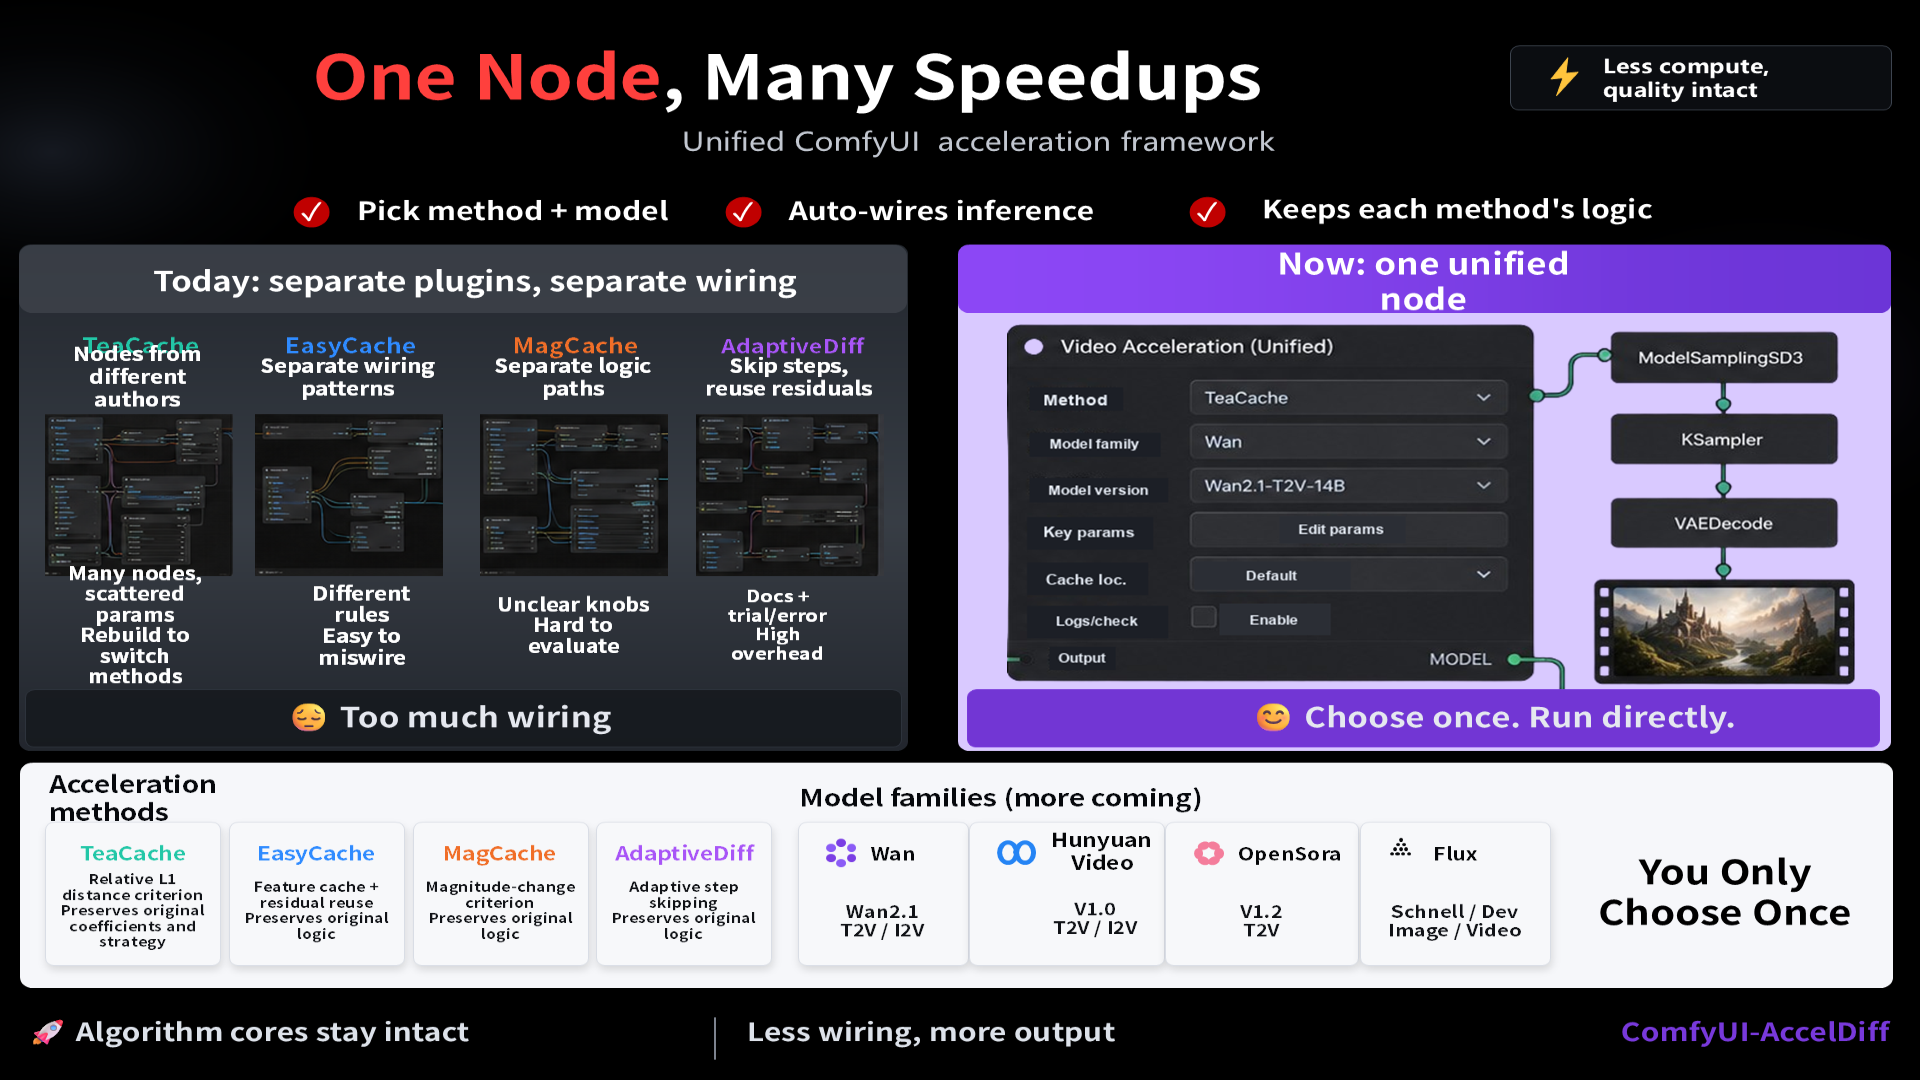
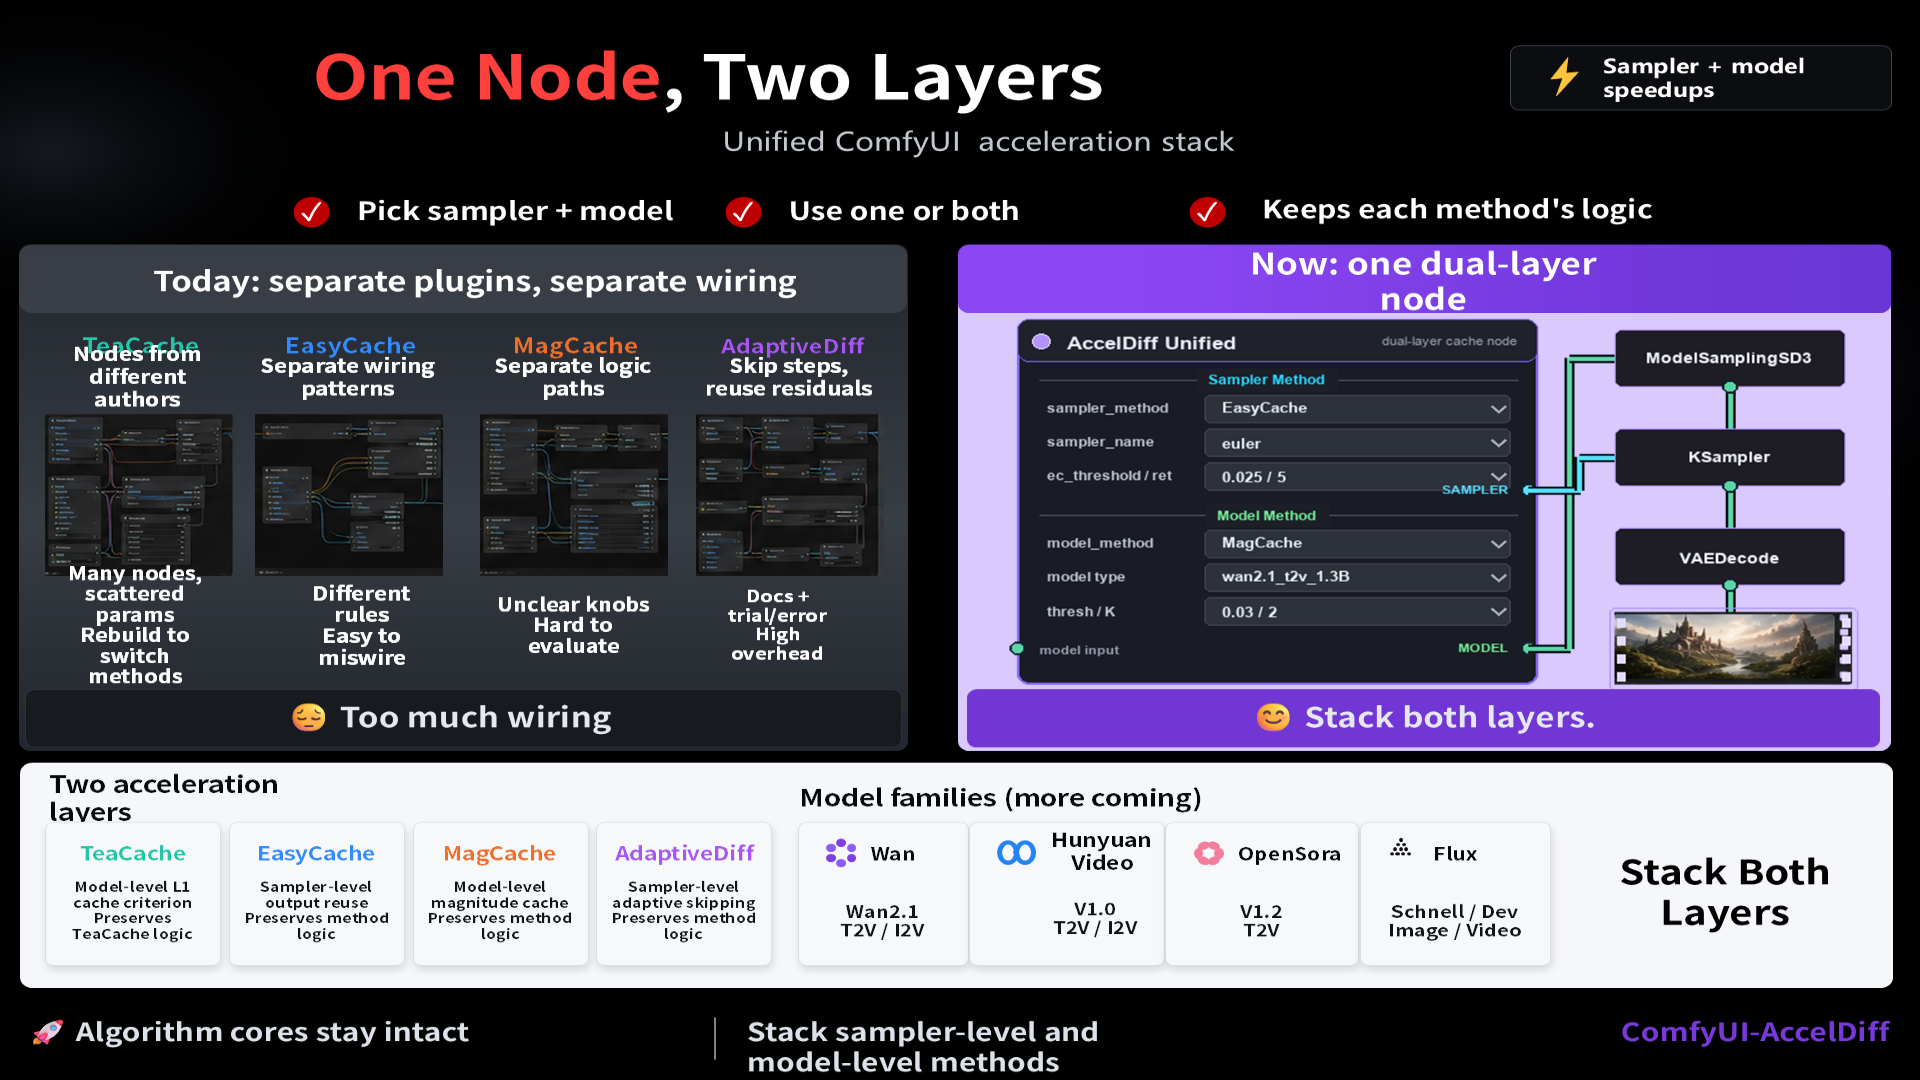
Update promo slide for dual-layer acceleration

diff --git a/README.md b/README.md
@@ -1,6 +1,6 @@
 # ComfyUI-AccelDiff
 
-A unified ComfyUI custom node for **training-free diffusion acceleration**. This node integrates multiple acceleration methods — including both **sampler-level** (model output reuse/approximation) and **model-level** (attention/layer feature caching) approaches — into a single, easy-to-use node. Users can select different acceleration strategies without needing a separate node for each method.
+A unified ComfyUI custom node for **training-free diffusion acceleration**. This node integrates multiple acceleration methods — including both **sampler-level** (model output reuse/approximation) and **model-level** (attention/layer feature caching) approaches — into a single, easy-to-use node. Users can enable either layer independently or stack sampler-level and model-level methods in the same workflow.
 
 ![ComfyUI](https://img.shields.io/badge/ComfyUI-Custom_Node-blue)
 ![License](https://img.shields.io/badge/License-Apache_2.0-green)
@@ -19,7 +19,8 @@ Diffusion model inference is computationally expensive. Many **training-free** a
 - **Model-level methods**: Cache and reuse intermediate features (e.g., attention maps, transformer block outputs) inside the model architecture to reduce per-step computation.
 
 **ComfyUI-AccelDiff** unifies these methods into **one single node** (`AccelDiff Unified`), allowing users to:
-- Select an acceleration method from a dropdown
+- Select sampler-level and model-level acceleration methods independently
+- Use either layer alone, or enable both together for combined acceleration
 - Customize parameters to achieve better speed-quality trade-offs for your specific use case
 - Seamlessly integrate acceleration into existing ComfyUI workflows
 